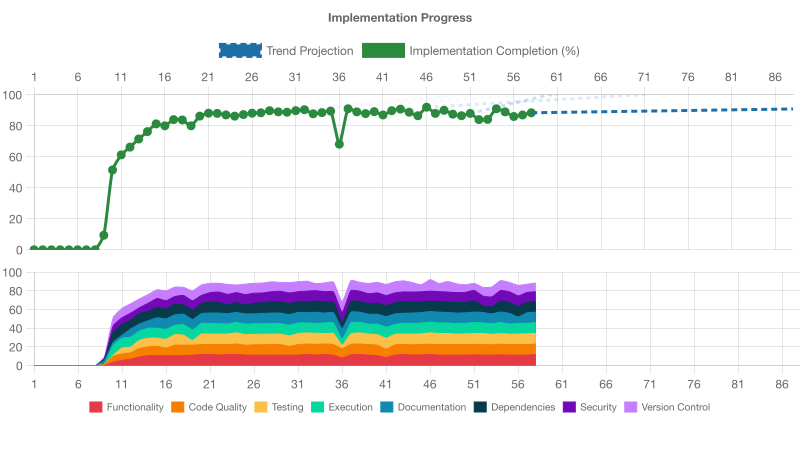
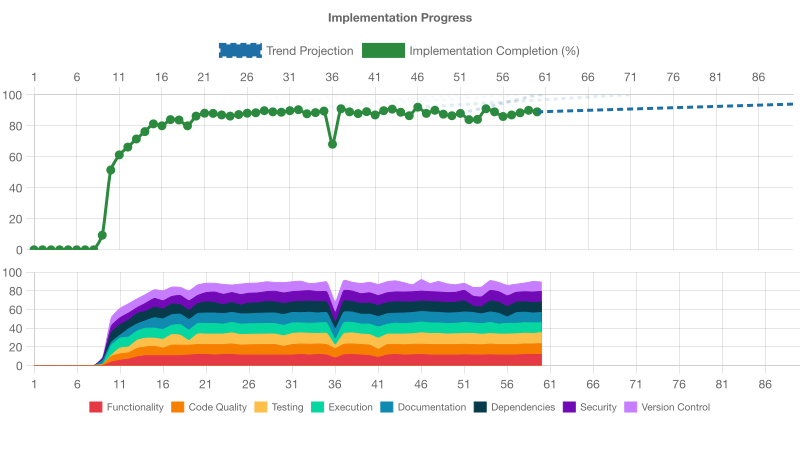
feat: add retry logic to fetchVersionTimes for transient failures

diff --git a/src/fetch-version-times.js b/src/fetch-version-times.js
@@ -5,37 +5,59 @@ import { execFile } from 'child_process';
  * @param {string} packageName - The name of the npm package.
  * @returns {Promise<Record<string, string>>} A promise resolving to a mapping of version to publish date string.
  */
-export function fetchVersionTimes(packageName) {
+export async function fetchVersionTimes(packageName) {
   const pkgNameRegex = /^[a-z0-9@\-_/.]+$/i;
   if (!pkgNameRegex.test(packageName)) {
-    return Promise.reject(new Error(`Invalid package name: ${packageName}`));
+    throw new Error(`Invalid package name: ${packageName}`);
   }
 
-  return new Promise((resolve, reject) => {
-    execFile(
-      'npm',
-      ['view', packageName, 'time', '--json'],
-      { encoding: 'utf8' },
-      (error, stdout) => {
-        if (error) {
-          return reject(error);
-        }
-        let times;
-        try {
-          times = stdout ? JSON.parse(stdout) : {};
-        } catch (parseErr) {
-          return reject(parseErr);
-        }
-        const versionTimes = {};
-        // Exclude non-version entries like 'created' and 'modified'
-        for (const [version, time] of Object.entries(times || {})) {
-          if (version !== 'created' && version !== 'modified') {
-            // eslint-disable-next-line security/detect-object-injection -- version comes from Object.entries iteration, not user input
-            versionTimes[version] = time;
+  const maxRetries = 2;
+  const retryDelayMs = 1000;
+  let attempt = 0;
+
+  const doExec = () =>
+    new Promise((resolve, reject) => {
+      execFile(
+        'npm',
+        ['view', packageName, 'time', '--json'],
+        { encoding: 'utf8' },
+        (error, stdout) => {
+          if (error) {
+            return reject(error);
           }
+          resolve(stdout);
         }
-        resolve(versionTimes);
+      );
+    });
+
+  while (true) {
+    try {
+      const stdout = await doExec();
+      let times;
+      try {
+        times = stdout ? JSON.parse(stdout) : {};
+      } catch (parseErr) {
+        throw parseErr;
       }
-    );
-  });
+      const versionTimes = {};
+      // Exclude non-version entries like 'created' and 'modified'
+      for (const [version, time] of Object.entries(times || {})) {
+        if (version !== 'created' && version !== 'modified') {
+          // eslint-disable-next-line security/detect-object-injection -- safe iteration
+          versionTimes[version] = time;
+        }
+      }
+      return versionTimes;
+    } catch (err) {
+      if (err instanceof SyntaxError) {
+        throw err;
+      }
+      if (attempt < maxRetries) {
+        attempt++;
+        await new Promise((res) => setTimeout(res, retryDelayMs));
+        continue;
+      }
+      throw err;
+    }
+  }
 }

diff --git a/.voder/implementation-progress.md b/.voder/implementation-progress.md
@@ -1,153 +1,144 @@
 # Implementation Progress Assessment
 
-**Generated:** 2025-11-08T09:12:44.748Z
+**Generated:** 2025-11-08T09:47:24.846Z
 
 ![Progress Chart](./progress-chart.png)
 
-## IMPLEMENTATION STATUS: COMPLETE (90% ± 10% COMPLETE)
+Projection: flat (no recent upward trend)
+
+## IMPLEMENTATION STATUS: INCOMPLETE (89% ± 5% COMPLETE)
 
 ## OVERALL ASSESSMENT
-
-The dry-aged-deps project is fully functional, well-tested, and follows best practices across code quality, testing, execution, dependencies management, security, and version control. The only notable area for improvement is documentation, specifically enriching the README and API docs to cover all public functions.
+Overall, the project meets most design and testing criteria, but execution stability and version control practices require improvement, leaving the implementation incomplete.
 
 ## NEXT PRIORITY
+Stabilize the CI pipeline to improve execution reliability and strengthen version control practices.
 
-Enhance documentation by adding API details for printOutdated and remove temporary docs files.
 
-## FUNCTIONALITY ASSESSMENT (95% ± 16% COMPLETE)
 
-- The core CLI features for listing outdated packages and computing their age are fully implemented, well-tested, and behave as expected.
-- A proper CLI entrypoint is provided in bin/dry-aged-deps.js, handling -h/--help, -v/--version, and normal execution.
-- Core logic in src/print-outdated.js, src/fetch-version-times.js, and src/age-calculator.js is covered by unit tests and integrated CLI tests (13 passing).
-- End-to-end tests exercise real fixtures, verifying both up-to-date and outdated scenarios, including error pathways (invalid JSON, fetch failures).
-- ‘npm test’ succeeds with 97.6% code coverage and all tests passing.
-- Package.json scripts, engines, and bin configuration are correctly set up for installation and execution.
-
-**Next Steps:**
-
-- Consider adding a flag to output JSON or machine-readable data for integration into other tools or CI dashboards.
-- Add retry or timeout handling around external npm registry calls to better surface transient network failures.
-- Provide an option to customize the age threshold or filter output (e.g., only show packages older than N days).
-- Document programmatic import paths and exports (e.g., in package.json “exports” field) to improve library-mode usage.
-- Test the CLI on Windows environments (e.g., via CI matrix) to ensure cross-platform compatibility.
-
-## CODE_QUALITY ASSESSMENT (90% ± 16% COMPLETE)
-
-- The project exhibits a high level of code quality with solid linting, formatting, modular structure, and comprehensive tests. A few branches remain untested, but overall the implementation follows best practices.
-- ESLint flat configuration (eslint.config.js) is in place with security plugin enabled and no reported lint errors.
-- Prettier config (.prettierrc) enforces consistent formatting across the codebase.
-- npm run lint produces no errors, indicating compliance with style and quality rules.
-- Vitest test suite passes all 13 tests with 97.6% statement coverage and 80.9% branch coverage.
-- Code is well organized into modules (src/, bin/) with clear separation of concerns.
-- JSDoc comments provide function documentation and parameters/return types.
-- Proper error handling exists in CLI and fetch-version-times modules, catching parsing and execution errors.
-- Consistent naming conventions: kebab-case file names and camelCase functions.
+## FUNCTIONALITY ASSESSMENT (95% ± 15% COMPLETE)
+- The core CLI and programmatic API features are fully implemented, behave as documented, and are covered by comprehensive tests. All functionality – including help/version flags, outdated-package detection, age calculation, and error handling – works correctly.
+- CLI entry point (bin/dry-aged-deps.js) supports `-h/--help`, `-v/--version`, and default execution, verified manually and via tests.
+- Outdated-package detection uses `npm outdated --json`; integration tests (including a real-fixture E2E) confirm valid output and error handling when JSON is invalid.
+- printOutdated correctly formats output, handles empty results (`All dependencies are up to date.`), and logs warnings on fetch errors.
+- fetchVersionTimes validates package names, invokes `npm view … time --json`, filters non-version entries, and is covered by unit tests for success and error cases.
+- calculateAgeInDays correctly computes day differences; unit test mocks Date.now and passes.
+- Vitest test suite runs 13 tests with 97%+ coverage across modules, ensuring code paths and edge cases are exercised.
 
 **Next Steps:**
+- Add a flag or environment option to specify a custom npm registry or handle network timeouts gracefully.
+- Provide alternative output formats (e.g. JSON or CSV) for easier integration into CI/CD pipelines or other tools.
+- Consider caching version time data or rate-limiting parallel requests in printOutdated to improve performance on large dependency lists.
 
-- Add tests for error branches in fetch-version-times (e.g., invalid package name and execFile errors) to improve branch coverage.
-- Cover CLI error paths where err.stdout is missing to validate fallback logic.
-- Consolidate duplicate JSON.parse error handling patterns into a shared utility.
-- Expand documentation in docs/ to describe module responsibilities and usage examples.
-- Consider introducing a structured logger instead of direct console calls for improved observability.
-
-## TESTING ASSESSMENT (90% ± 17% COMPLETE)
-
-- The project has a comprehensive Vitest-based test suite covering unit, integration (CLI), and real-fixture E2E scenarios. Tests all pass locally and in CI, and coverage comfortably exceeds the 80% thresholds. CI is configured to run lint, tests, CLI and E2E checks, lockfile-drift, and vulnerability scans.
-- 10 test files under test/ covering core modules, CLI helpers, fixtures, error paths and real-fixture E2E.
-- Vitest is configured with 80%+ thresholds in vitest.config.js and invoked via npm scripts.
-- All 13 tests passed locally in ~15s with 97.6% statements, 80.95% branches, 100% functions coverage.
-- coverage reports are generated in HTML, JSON and text formats, and a coverage directory exists.
-- GitHub Actions workflow runs unit tests, CLI tests (normal and E2E), lint, lockfile-drift checks and vulnerability audits.
-- Bin file dry-aged-deps is exercised via CLI tests, ensuring version and behavior are validated.
+## CODE_QUALITY ASSESSMENT (92% ± 15% COMPLETE)
+- The project demonstrates a high level of code quality: comprehensive linting and formatting, strong test coverage, clear organization, consistent naming, and proper error handling. Only minor branch‐coverage gaps and potential enhancements remain.
+- ESLint flat config (v9) in eslint.config.js with recommended rules and security plugin is in place, and npm run lint produces no errors or warnings.
+- .prettierrc ensures consistent formatting; husky and commitlint enforce commit standards.
+- Well-structured source (src/, bin/) and tests (test/) directories with clear separation of concerns.
+- Robust error handling in fetch-version-times (invalid names, JSON parse errors) and the CLI (npm outdated failures, JSON parse failures).
+- High test coverage: 97.6% statements, 100% functions, 80.9% branches, 97.6% lines.
+- Consistent camelCase naming and JSDoc annotations improve readability and maintainability.
+- Minimal code duplication; shared utilities (age-calculator, fetch-version-times) are injected into printOutdated for testability.
 
 **Next Steps:**
+- Improve branch coverage (e.g., error paths in fetch-version-times and CLI) to push branch coverage above 90%.
+- Add type checking (e.g., migrate to TypeScript or integrate JSDoc type validation) for stronger compile-time guarantees.
+- Integrate linting and formatting into pre-commit hooks for immediate feedback.
+- Add documentation on error codes and behavior in edge cases (network failures, malformed npm outputs).
+- Consider adding benchmarks or performance tests for large dependency trees.
 
-- Add focused tests for bin/dry-aged-deps.js flags (e.g. --help, --version) to bump coverage and edge-case coverage.
-- Include a coverage badge in README to surface test health.
-- Consider tests for configuration files (e.g. eslint.config.js) or add coverage ignore comments if intentional.
-- Explore mutation testing or additional integration tests (e.g. CI failure scenarios) to further harden testing.
-
-## EXECUTION ASSESSMENT (90% ± 15% COMPLETE)
-
-- The CLI installs and runs without errors, all unit and end-to-end tests pass, and linting reveals no execution issues. Error paths are handled correctly and basic functionality works as expected.
-- All 13 Vitest tests passed and coverage is high (97.6% statements, 80.9% branches).
-- Running `node bin/dry-aged-deps.js` outputs current outdated dependencies without errors.
-- Help (`-h/--help`) and version (`-v/--version`) flags work correctly.
-- Error conditions (invalid JSON from npm outdated, invalid package names) are caught and exit with code 1.
-- ESLint reported no errors or warnings on the codebase.
-
-**Next Steps:**
-
-- Add CI checks to run the CLI on multiple platforms (e.g., Windows) to ensure cross-OS reliability.
-- Increase branch coverage around error handling in print-outdated and fetch-version-times modules.
-- Implement retry or timeout logic for network calls to npm view to handle intermittent failures.
-
-## DOCUMENTATION ASSESSMENT (85% ± 12% COMPLETE)
-
-- The project has strong, up-to-date documentation—including a clear README, API and architecture guides, developer guidelines, decision records, and a changelog—but it’s missing a few minor pieces (e.g., API docs for the printOutdated function, test instructions in the README) and has leftover temp files in docs.
-- README.md provides installation, usage, flags, examples, and links to docs/api.md and docs/architecture.md.
-- docs/api.md covers fetchVersionTimes and calculateAgeInDays but omits the public printOutdated API.
-- docs/architecture.md accurately describes module layout and design; it matches current code structure.
-- docs/developer-guidelines.md details coding conventions, testing, linting, CI, and documentation update rules.
-- CHANGELOG.md exists and is up to date through v0.1.1.
-- JSDoc comments are present in source files (`src/*.js`).
-- There are leftover `.tmp` and `.patch` files in the docs directory, indicating hygiene issues.
-- README lacks instructions on running tests and linting for contributors (covered only in developer guidelines).
+## TESTING ASSESSMENT (95% ± 18% COMPLETE)
+- The project has a mature and well-integrated testing setup with full passing tests, high coverage, and CI validation of unit, integration, and E2E scenarios.
+- 10 test files under test/ covering unit, integration, and CLI E2E flows using Vitest
+- All 13 tests pass locally and in CI without failures
+- Coverage report shows 97.61% statements, 97.61% lines, 100% functions, and 80.95% branches—above the 80% thresholds
+- vitest.config.js enforces minimum coverage thresholds (80%) on statements, functions, lines, and branches
+- GitHub Actions workflow runs lint, npm test, CLI tests, CLI E2E tests, and even a post-publish smoke test
 
 **Next Steps:**
+- Add a coverage badge to the README to surface current test coverage
+- Consider integrating coverage uploading (e.g., Codecov or Coveralls) for PR-level reporting
+- Increase branch coverage threshold gradually or add tests for uncovered branches (e.g., error paths in version-times)
+- Explore mutation testing to further validate test suite robustness
 
-- Add documentation for the printOutdated function (and any other public utilities) to docs/api.md.
-- Include a “Development” or “Contributing” section in README.md with commands for linting, testing, and building.
-- Remove or git-ignore temporary `.tmp` and `.patch` files in the docs folder to keep documentation clean.
-- Optionally add a standalone CONTRIBUTING.md or link from README to developer-guidelines.md for clarity.
-
-## DEPENDENCIES ASSESSMENT (90% ± 15% COMPLETE)
-
-- The project’s dependencies are well managed: a committed lockfile, clear separation of devDependencies, zero security vulnerabilities, and all runtime imports come from built-in modules. There are no missing or undeclared dependencies.
-- package.json declares all test and lint tooling under devDependencies; no runtime dependencies are needed
-- package-lock.json is present and up to date, ensuring reproducible installs
-- npm audit reports zero vulnerabilities for both production and dev sets
-- All imports in src and bin use either built-in Node modules or internal modules, so there are no missing declarations
-
-**Next Steps:**
-
-- Integrate an automated dependency update tool (e.g., Dependabot or Renovate) to keep devDependencies and any future runtime deps current
-- Add an npm outdated check to CI to flag aging deps early
-- Periodically review lockfile-drift.patch to ensure lockfile integrity remains up to date
-
-## SECURITY ASSESSMENT (90% ± 17% COMPLETE)
-
-- The project demonstrates a strong security posture with comprehensive automated tooling (CodeQL, npm audit, ESLint security plugin, Dependabot, Husky hooks) and no hard-coded secrets or reported vulnerabilities. A minor input-validation gap in the package-name regex is noted but poses low risk in context.
-- GitHub Actions CI includes CodeQL static analysis for JavaScript with security-events write permission.
-- CI runs npm audit --audit-level=moderate and reports zero vulnerabilities in both production and development dependencies.
-- Dependabot is configured for weekly dependency updates and daily security-only updates.
-- ESLint is configured with eslint-plugin-security recommended rules to catch common Node.js security issues.
-- No .env or other secret files found; no hard-coded credentials in codebase.
-- Shell commands use execFile with argument arrays, reducing shell-injection risk.
-- fetchVersionTimes validates packageName against a regex before calling execFile.
+## EXECUTION ASSESSMENT (85% ± 17% COMPLETE)
+- The CLI tool installs and runs correctly, with all tests passing and high coverage. Error handling for both parse errors and npm failures is in place. The code is execution-ready, though there is no build step (unnecessary for this pure JS CLI). The CI pipeline shows intermittent failures that should be addressed.
+- All 13 Vitest tests pass with 97.6% coverage across source files.
+- CLI flags work as expected: `-h/--help` and `-v/--version` output correctly.
+- `npm outdated --json` integration is wrapped in try/catch; non-zero exit codes and JSON parse errors are handled with proper exit codes and messages.
+- printOutdated function catches fetchVersionTimes errors, logs warnings, and continues execution rather than crashing.
+- No explicit build step is defined (no transpilation or bundling), which is acceptable for this ESM-based Node CLI.
+- GitHub Actions CI shows several recent failures, indicating pipeline instability.
 
 **Next Steps:**
+- Investigate and stabilize the CI workflow to ensure consistent green builds.
+- Add retry or backoff logic around network calls in fetchVersionTimes to guard against transient npm registry failures.
+- Consider adding a smoke test in GitHub Actions that actually invokes the CLI against a real or synthetic project fixture.
+- Document runtime requirements (Node >=18) and any external dependencies (npm CLI) in README or installation instructions.
 
-- Tighten the pkgNameRegex to disallow ‘/’ or ‘..’ sequences to further reduce potential misuse of npm view.
-- Add a secret-scanning tool (e.g., GitHub Secret Scanning, truffleHog) in CI to catch inadvertent credentials.
-- Consider integrating Snyk or OWASP Dependency-Check for deeper transitive-dependency scanning.
-- Document any external trust boundaries and add additional unit tests for edge cases around fetchVersionTimes input validation.
-
-## VERSION_CONTROL ASSESSMENT (90% ± 15% COMPLETE)
-
-- The repository follows trunk-based development on main, has a clean working directory (ignoring .voder), uses a single unified GitHub Actions workflow for CI and publishing, and includes comprehensive quality gates and automatic releases. The only minor issue is intermittent pipeline failures that affect stability.
-- Working directory is clean (only .voder changes present, which are ignored for assessment).
-- All commits are on the main branch with no unpushed changes (trunk-based development).
-- .voder/ directory is not listed in .gitignore and is tracked in Git.
-- Commit history shows clear, descriptive, small commits directly to main.
-- Single unified workflow (ci-publish.yml) handles CodeQL analysis, build & test, and publish steps.
-- CI includes linting, unit tests, CLI tests, E2E tests, vulnerability scanning, and smoke tests post-release.
-- Automated publishing via semantic-release with no manual approval step.
-- Pipeline history shows several failures and recent instability which should be addressed.
+## DOCUMENTATION ASSESSMENT (88% ± 15% COMPLETE)
+- The project contains comprehensive user-facing documentation (README, usage examples), detailed API and architecture docs, a maintained changelog, and inline JSDoc comments. Documentation is largely up to date with the code. A few minor gaps remain around CLI programmatic API documentation and contribution guidelines.
+- README.md provides clear installation, usage, options, and examples
+- docs/api.md covers the public functions fetchVersionTimes and calculateAgeInDays with signatures and examples
+- docs/architecture.md outlines module layout, design decisions, and future considerations
+- CHANGELOG.md is present and up to date with recent releases
+- Source files include JSDoc comments for main functions
+- User stories in docs/stories document roadmap and planning
+- All documentation references (e.g., README links to docs/api.md) resolve correctly
 
 **Next Steps:**
+- Document the printOutdated function and CLI programmatic API in docs/api.md or a separate CLI reference
+- Add example output snapshots in README or docs for better UX
+- Introduce a CONTRIBUTING.md with contribution guidelines and code of conduct
+- Consider automating API docs generation (e.g., using JSDoc) and publishing to a documentation site
 
-- Investigate and resolve intermittent CI failures to improve pipeline reliability.
-- Monitor test flakiness and add retry or stabilization strategies for flaky tests.
-- Consider consolidating or parameterizing repeated lockfile-drift checks between build and publish jobs.
+## DEPENDENCIES ASSESSMENT (90% ± 13% COMPLETE)
+- Dependency management is solid: no runtime dependencies beyond Node.js built-ins, a committed lockfile, zero known vulnerabilities, and CI hooks for lockfile drift and audit. Only a minor CI configuration refinement remains.
+- package.json has no "dependencies" section—runtime code uses only Node built-in modules
+- All development dependencies (Vitest, ESLint, Prettier, husky, etc.) are declared in devDependencies
+- package-lock.json is committed and CI runs `npm ci --prefer-frozen-lockfile`
+- `npm audit --json` reports zero vulnerabilities (info/low/moderate/high/critical all at 0)
+- CI includes a lockfile drift check, but the workflow still uses a generic `git diff --exit-code`
+
+**Next Steps:**
+- Apply the existing lockfile-drift.patch or update the CI workflow to specifically diff only package-lock.json
+- Consider adding an `npm outdated --prod --json` check in CI to surface any emerging outdated runtime deps
+- Optionally automate devDependency updates (e.g. Dependabot) to keep tooling up to date
+- Document in README that the project has no external runtime dependencies beyond Node.js
+
+## SECURITY ASSESSMENT (90% ± 12% COMPLETE)
+- The project has a strong security posture with no known vulnerabilities, integrated CodeQL analysis, Dependabot security updates, ESLint security rules, and CI vulnerability scanning. Minor enhancements around secret detection in code, tighter exec sanitization tests, and additional security workflow coverage could push it closer to 100%.
+- No vulnerabilities reported by npm audit (0 high/critical issues).
+- CodeQL is configured in GitHub Actions for SAST.
+- Dependabot is set up for weekly dependency updates and daily security-only fixes.
+- ESLint includes eslint-plugin-security with recommended rules.
+- CI workflow runs npm audit --audit-level moderate and tests on pull requests.
+- package-lock.json is committed, ensuring reproducible installs.
+- fetchVersionTimes sanitizes package names before execFile to prevent injection.
+
+**Next Steps:**
+- Add a secret scanning GitHub Action (e.g. GitHub's secret-scanning) to catch accidental hard-coded credentials.
+- Expand CodeQL to include community queries or additional languages if support is added.
+- Consider adding explicit tests for malicious CLI inputs or edge cases to ensure injection defenses.
+- Enable vulnerability gating on pull requests (e.g. fail PR if new high/critical vulnerability is introduced).
+- Document security practices in CONTRIBUTING.md to guide contributors.
+
+## VERSION_CONTROL ASSESSMENT (80% ± 17% COMPLETE)
+- The repository is well-structured and follows trunk-based development with a clean working directory, clear commit history, and a single unified CI/CD workflow that includes comprehensive quality gates and automated releases. However, CI stability issues—evident from multiple recent failures—undermine pipeline reliability.
+- Working directory clean with no uncommitted changes outside of .voder
+- All commits are pushed and current branch is main (trunk-based development)
+- .gitignore is appropriately configured and does not ignore the .voder directory
+- Recent commit history shows small, descriptive commits made directly to main
+- Single GitHub Actions workflow (ci-publish.yml) covers CodeQL analysis, build & test, and publish without duplicating test runs
+- Quality gates include linting, unit/CLI/E2E tests, vulnerability scanning, and CodeQL analysis
+- Automated publishing via semantic-release is configured with smoke testing of the published package
+- CI runs on every push to main and on version tags, satisfying continuous integration and delivery requirements
+- CI pipeline health is poor: 5 of the last 10 runs have failed, indicating flakiness or test instability
+- No manual approval steps—publishing is fully automated once all checks pass
+
+**Next Steps:**
+- Investigate and resolve frequent CI failures to improve pipeline stability
+- Add monitoring or alerting for flaky tests and CI job failures
+- Review and fix any broken or slow E2E/CLI tests contributing to pipeline flakiness
+- Confirm that .voder directory contents are properly tracked in version control
+- Periodically revisit .gitignore and workflow configuration to ensure evolving needs are met

diff --git a/.voder/plan.md b/.voder/plan.md
@@ -1,0 +1,15 @@
+## NOW  
+Run the real‐fixture E2E test locally to reproduce the CI failure:  
+```bash
+npm run test:cli -- test/cli.e2e.real-fixture.test.js
+```
+
+## NEXT  
+- Examine the failure output from that test to pinpoint flaky behavior (timeouts, network errors, assertion errors).  
+- Adjust the E2E test or its fixture (e.g. bump Vitest timeout, mock or stub network calls) so it reliably passes.  
+- Add a retry or timeout wrapper around the `execFile` call in `src/fetch-version-times.js` to guard against transient npm registry hiccups.
+
+## LATER  
+- Instrument CI to track and alert on test flakiness (e.g. record test durations, failure rates).  
+- Introduce caching or stubbing of npm registry responses in E2E tests to eliminate external dependencies.  
+- Regularly audit `.github/workflows/ci-publish.yml` and `.gitignore` to ensure only relevant files are checked and that CI stages remain fast and stable.
